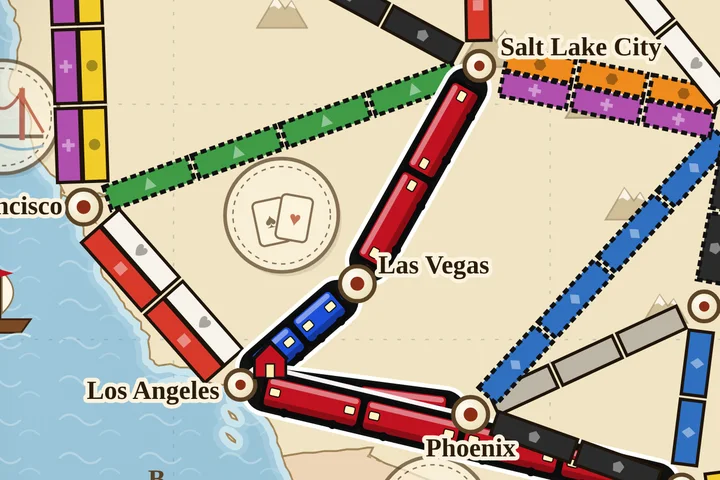
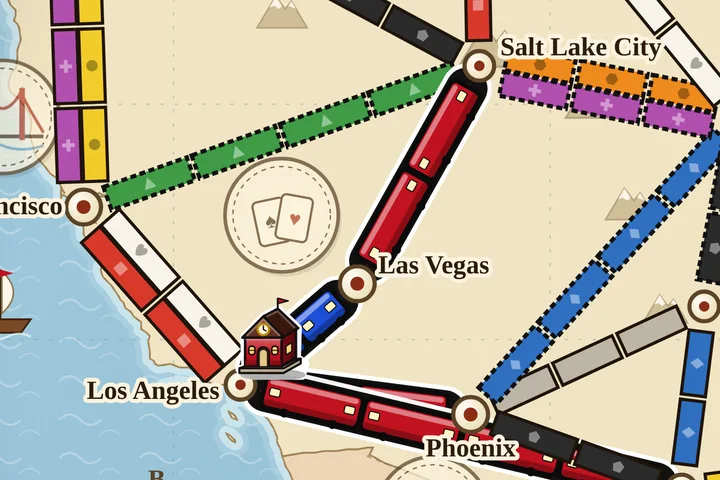
Đường Ray: nhà ga 3D mới cùng phong cách đoàn tàu (bản đồ, nút Xây ga, trang luật)
Claude-Session: https://claude.ai/code/session_01C6iMujCmX6wKKq45Tr3EAE

Changed region(s): [[0.3056, 0.625, 0.4278, 0.8125]]

diff --git a/games/duong-ray-bac-my/luat.html b/games/duong-ray-bac-my/luat.html
@@ -143,7 +143,40 @@ footer{text-align:center;color:#e9d6ae;font-size:14px;margin-top:10px}
 <div class="vd">Bạn được chia vé dài Calgary–Miami (17 điểm) và 3 vé thường. Nếu các vé thường nằm gần đường đi của vé dài, hãy giữ cả 4. Nếu có vé ở góc bản đồ ngược hướng, bỏ nó đi và giữ 3 vé.</div>
 <div class="hand"><span class="lbl">Tay bài mở đầu, ví dụ:</span><figure class="tc sm"><img src="../../railart/cards/red.webp" alt="Đỏ" loading="lazy"></figure><figure class="tc sm"><img src="../../railart/cards/red.webp" alt="Đỏ" loading="lazy"></figure><figure class="tc sm"><img src="../../railart/cards/blue.webp" alt="Xanh dương" loading="lazy"></figure><figure class="tc sm"><img src="../../railart/cards/loco.webp" alt="Đầu máy" loading="lazy"></figure></div></section><section class="box" id="luot-choi"><h2><span class="no">4</span>Lượt chơi</h2>
 <p>Đến lượt, bạn làm <b>đúng một</b> trong 4 việc dưới đây. Không được vừa rút bài vừa chiếm tuyến trong cùng một lượt.</p>
-<div class="steps"><div class="st"><h4><span>1</span>Rút bài toa tàu</h4><img class="ill" src="../../railart/cards/back.webp" alt=""><p>Lấy 2 lá, từ 5 lá ngửa hoặc chồng úp.</p></div><div class="st"><h4><span>2</span>Chiếm 1 tuyến</h4><img class="ill" src="../../railart/wagons/red.png" alt=""><p>Đánh đủ lá cùng màu, đặt toa lên tuyến, ghi điểm ngay.</p></div><div class="st"><h4><span>3</span>Rút vé hành trình</h4><img class="ill" src="../../railart/ticket-back.webp" alt=""><p>Rút 3 vé, giữ ít nhất 1.</p></div><div class="st"><h4><span>4</span>Xây nhà ga</h4><svg class="ill" viewBox="-2 -3 23 25" height="58" style="display:block;margin:4px auto 6px"><path d="M0,9 L9,0 L18,9 L18,20 L0,20Z" fill="#c1121f" stroke="#111" stroke-width="1.5"/><rect x="6.5" y="12" width="5" height="8" fill="#ffe9a8" stroke="#111" stroke-width=".8"/><path d="M-1,9.5 L9,-0.8 L19,9.5" fill="none" stroke="#111" stroke-width="2"/></svg><p>Trả 1, 2 rồi 3 lá cùng màu, đặt ga lên một thành phố trống.</p></div></div>
+<div class="steps"><div class="st"><h4><span>1</span>Rút bài toa tàu</h4><img class="ill" src="../../railart/cards/back.webp" alt=""><p>Lấy 2 lá, từ 5 lá ngửa hoặc chồng úp.</p></div><div class="st"><h4><span>2</span>Chiếm 1 tuyến</h4><img class="ill" src="../../railart/wagons/red.png" alt=""><p>Đánh đủ lá cùng màu, đặt toa lên tuyến, ghi điểm ngay.</p></div><div class="st"><h4><span>3</span>Rút vé hành trình</h4><img class="ill" src="../../railart/ticket-back.webp" alt=""><p>Rút 3 vé, giữ ít nhất 1.</p></div><div class="st"><h4><span>4</span>Xây nhà ga</h4><svg viewBox="-4 -8 38 42" class="ill" style="height:62px;display:block;margin:2px auto 6px"><defs><linearGradient id="sfrr" x1="0" y1="0" x2="0" y2="1"><stop offset="0" stop-color="#d7656d"/><stop offset=".6" stop-color="#c1121f"/><stop offset="1" stop-color="#9e0f19"/></linearGradient>
+   <linearGradient id="ssrr" x1="0" y1="0" x2="1" y2="0"><stop offset="0" stop-color="#780b13"/><stop offset="1" stop-color="#57080e"/></linearGradient>
+   <linearGradient id="srrr" x1="0" y1="0" x2="0" y2="1"><stop offset="0" stop-color="#8a4630"/><stop offset="1" stop-color="#5b2a1c"/></linearGradient></defs>
+  <g fill="#fff" stroke="#fff" stroke-width="4.2" stroke-linejoin="round" opacity=".95">
+     <path d="M-1.5 30 L4 33.5 L31 33.5 L33 27 L30 25 Z"/><path d="M1 13 L11 2.5 L18.5 -1.5 L29 8.5 L28.5 24 L21.5 28.5 L1.5 28.5 Z"/></g>
+  <ellipse cx="16" cy="33" rx="17" ry="3.2" fill="#000" opacity=".28"/>
+  <!-- sân ga -->
+  <path d="M-1.5 29.5 L21.5 29.5 L30.5 24.5 L30.5 27 L21.5 32 L-1.5 32 Z" fill="#b9ab90" stroke="#141010" stroke-width="1.1" stroke-linejoin="round"/>
+  <path d="M-1.5 29.5 L21.5 29.5 L30.5 24.5 L28.5 24.5 L21 28.4 L1.5 28.4 Z" fill="#efe6d2" stroke="#141010" stroke-width="1" stroke-linejoin="round"/>
+  <!-- tường hông -->
+  <path d="M20.5 13 L28 8.5 L28 23.8 L20.5 28.4 Z" fill="url(#ssrr)" stroke="#141010" stroke-width="1.3" stroke-linejoin="round"/>
+  <path d="M22.8 18 L25.8 16.2 L25.8 20.8 L22.8 22.6 Z" fill="#ffd877" stroke="#141010" stroke-width=".7" stroke-linejoin="round"/>
+  <!-- mặt tiền -->
+  <rect x="1.5" y="13" width="19" height="15.4" fill="url(#sfrr)" stroke="#141010" stroke-width="1.3"/>
+  <rect x="1.5" y="13" width="19" height="2" fill="#fff" opacity=".28"/>
+  <rect x="1.5" y="25.6" width="19" height="2.8" fill="#780b13" opacity=".55"/>
+  <!-- cửa vòm + cửa sổ -->
+  <path d="M8 28.4 V21.5 a3 3 0 0 1 6 0 V28.4 Z" fill="#3a2414" stroke="#141010" stroke-width="1"/>
+  <path d="M9.2 28.4 V21.8 a1.8 1.8 0 0 1 3.6 0 V28.4" fill="#ffe7a0" opacity=".85"/>
+  <rect x="3.4" y="18" width="3.2" height="4.4" rx="1.4" fill="#ffd877" stroke="#141010" stroke-width=".8"/>
+  <rect x="15.4" y="18" width="3.2" height="4.4" rx="1.4" fill="#ffd877" stroke="#141010" stroke-width=".8"/>
+  <path d="M3.4 20.2 h3.2 M15.4 20.2 h3.2" stroke="#141010" stroke-width=".5"/>
+  <!-- mái hông -->
+  <path d="M11 2.5 L18.5 -1.5 L29.2 8.6 L21.3 13.4 Z" fill="#3a170e" stroke="#141010" stroke-width="1.3" stroke-linejoin="round"/>
+  <path d="M12.6 2.6 L18.4 -.2 L27.4 8.4" fill="none" stroke="#fff" stroke-opacity=".25" stroke-width="1"/>
+  <!-- mái trước (đầu hồi) -->
+  <path d="M0 13.6 L11 2.5 L22 13.6 Z" fill="url(#srrr)" stroke="#141010" stroke-width="1.3" stroke-linejoin="round"/>
+  <path d="M2.4 12.6 L11 4 L19.6 12.6" fill="none" stroke="#fff" stroke-opacity=".3" stroke-width="1"/>
+  <!-- đồng hồ -->
+  <circle cx="11" cy="9.3" r="3" fill="#fff7dc" stroke="#b8860b" stroke-width="1.1"/>
+  <path d="M11 9.3 V7.4 M11 9.3 L12.4 10" stroke="#141010" stroke-width=".7" stroke-linecap="round"/>
+  <!-- cờ màu người chơi -->
+  <path d="M18.5 -1.5 V-7" stroke="#141010" stroke-width="1"/>
+  <path d="M18.6 -7 L24 -5.6 L18.6 -4.2 Z" fill="#c1121f" stroke="#141010" stroke-width=".7" stroke-linejoin="round"/></svg><p>Trả 1, 2 rồi 3 lá cùng màu, đặt ga lên một thành phố trống.</p></div></div>
 
 <h3 id="rut-bai">Việc 1: rút bài toa tàu</h3>
 <ul>
@@ -221,7 +254,7 @@ footer{text-align:center;color:#e9d6ae;font-size:14px;margin-top:10px}
 
 <h3 id="nha-ga">Việc 4: xây nhà ga</h3>
 <div class="fig">
-  <div><img class="shot" src="assets/rules/station.webp?v=1" alt="" loading="lazy"><p class="cap">Nhà ga Đỏ ở Los Angeles. Tuyến Los Angeles–Las Vegas là của người Xanh, hai tuyến Đỏ nằm hai bên.</p></div>
+  <div><img class="shot" src="assets/rules/station.webp?v=2" alt="" loading="lazy"><p class="cap">Nhà ga Đỏ ở Los Angeles. Tuyến Los Angeles–Las Vegas là của người Xanh, hai tuyến Đỏ nằm hai bên.</p></div>
   <div><ul>
    <li>Đặt nhà ga lên một thành phố <b>chưa có ga</b> nào. Không cần có tuyến của bạn ở đó.</li>
    <li>Giá tăng dần: ga thứ 1 tốn <b>1 lá</b>, ga thứ 2 tốn <b>2 lá cùng màu</b>, ga thứ 3 tốn <b>3 lá cùng màu</b>. Đầu máy thay được.</li>

diff --git a/games/duong-ray-chau-au/luat.html b/games/duong-ray-chau-au/luat.html
@@ -143,7 +143,40 @@ footer{text-align:center;color:#e9d6ae;font-size:14px;margin-top:10px}
 <div class="vd">Bạn được chia vé dài Paris–Moskva (17 điểm) và 3 vé thường. Nếu các vé thường nằm gần đường đi của vé dài, hãy giữ cả 4. Nếu có vé ở góc bản đồ ngược hướng, bỏ nó đi và giữ 3 vé.</div>
 <div class="hand"><span class="lbl">Tay bài mở đầu, ví dụ:</span><figure class="tc sm"><img src="../../railart/cards/red.webp" alt="Đỏ" loading="lazy"></figure><figure class="tc sm"><img src="../../railart/cards/red.webp" alt="Đỏ" loading="lazy"></figure><figure class="tc sm"><img src="../../railart/cards/blue.webp" alt="Xanh dương" loading="lazy"></figure><figure class="tc sm"><img src="../../railart/cards/loco.webp" alt="Đầu máy" loading="lazy"></figure></div></section><section class="box" id="luot-choi"><h2><span class="no">4</span>Lượt chơi</h2>
 <p>Đến lượt, bạn làm <b>đúng một</b> trong 4 việc dưới đây. Không được vừa rút bài vừa chiếm tuyến trong cùng một lượt.</p>
-<div class="steps"><div class="st"><h4><span>1</span>Rút bài toa tàu</h4><img class="ill" src="../../railart/cards/back.webp" alt=""><p>Lấy 2 lá, từ 5 lá ngửa hoặc chồng úp.</p></div><div class="st"><h4><span>2</span>Chiếm 1 tuyến</h4><img class="ill" src="../../railart/wagons/red.png" alt=""><p>Đánh đủ lá cùng màu, đặt toa lên tuyến, ghi điểm ngay.</p></div><div class="st"><h4><span>3</span>Rút vé hành trình</h4><img class="ill" src="../../railart/ticket-back.webp" alt=""><p>Rút 3 vé, giữ ít nhất 1.</p></div><div class="st"><h4><span>4</span>Xây nhà ga</h4><svg class="ill" viewBox="-2 -3 23 25" height="58" style="display:block;margin:4px auto 6px"><path d="M0,9 L9,0 L18,9 L18,20 L0,20Z" fill="#c1121f" stroke="#111" stroke-width="1.5"/><rect x="6.5" y="12" width="5" height="8" fill="#ffe9a8" stroke="#111" stroke-width=".8"/><path d="M-1,9.5 L9,-0.8 L19,9.5" fill="none" stroke="#111" stroke-width="2"/></svg><p>Trả 1, 2 rồi 3 lá cùng màu, đặt ga lên một thành phố trống.</p></div></div>
+<div class="steps"><div class="st"><h4><span>1</span>Rút bài toa tàu</h4><img class="ill" src="../../railart/cards/back.webp" alt=""><p>Lấy 2 lá, từ 5 lá ngửa hoặc chồng úp.</p></div><div class="st"><h4><span>2</span>Chiếm 1 tuyến</h4><img class="ill" src="../../railart/wagons/red.png" alt=""><p>Đánh đủ lá cùng màu, đặt toa lên tuyến, ghi điểm ngay.</p></div><div class="st"><h4><span>3</span>Rút vé hành trình</h4><img class="ill" src="../../railart/ticket-back.webp" alt=""><p>Rút 3 vé, giữ ít nhất 1.</p></div><div class="st"><h4><span>4</span>Xây nhà ga</h4><svg viewBox="-4 -8 38 42" class="ill" style="height:62px;display:block;margin:2px auto 6px"><defs><linearGradient id="sfrr" x1="0" y1="0" x2="0" y2="1"><stop offset="0" stop-color="#d7656d"/><stop offset=".6" stop-color="#c1121f"/><stop offset="1" stop-color="#9e0f19"/></linearGradient>
+   <linearGradient id="ssrr" x1="0" y1="0" x2="1" y2="0"><stop offset="0" stop-color="#780b13"/><stop offset="1" stop-color="#57080e"/></linearGradient>
+   <linearGradient id="srrr" x1="0" y1="0" x2="0" y2="1"><stop offset="0" stop-color="#8a4630"/><stop offset="1" stop-color="#5b2a1c"/></linearGradient></defs>
+  <g fill="#fff" stroke="#fff" stroke-width="4.2" stroke-linejoin="round" opacity=".95">
+     <path d="M-1.5 30 L4 33.5 L31 33.5 L33 27 L30 25 Z"/><path d="M1 13 L11 2.5 L18.5 -1.5 L29 8.5 L28.5 24 L21.5 28.5 L1.5 28.5 Z"/></g>
+  <ellipse cx="16" cy="33" rx="17" ry="3.2" fill="#000" opacity=".28"/>
+  <!-- sân ga -->
+  <path d="M-1.5 29.5 L21.5 29.5 L30.5 24.5 L30.5 27 L21.5 32 L-1.5 32 Z" fill="#b9ab90" stroke="#141010" stroke-width="1.1" stroke-linejoin="round"/>
+  <path d="M-1.5 29.5 L21.5 29.5 L30.5 24.5 L28.5 24.5 L21 28.4 L1.5 28.4 Z" fill="#efe6d2" stroke="#141010" stroke-width="1" stroke-linejoin="round"/>
+  <!-- tường hông -->
+  <path d="M20.5 13 L28 8.5 L28 23.8 L20.5 28.4 Z" fill="url(#ssrr)" stroke="#141010" stroke-width="1.3" stroke-linejoin="round"/>
+  <path d="M22.8 18 L25.8 16.2 L25.8 20.8 L22.8 22.6 Z" fill="#ffd877" stroke="#141010" stroke-width=".7" stroke-linejoin="round"/>
+  <!-- mặt tiền -->
+  <rect x="1.5" y="13" width="19" height="15.4" fill="url(#sfrr)" stroke="#141010" stroke-width="1.3"/>
+  <rect x="1.5" y="13" width="19" height="2" fill="#fff" opacity=".28"/>
+  <rect x="1.5" y="25.6" width="19" height="2.8" fill="#780b13" opacity=".55"/>
+  <!-- cửa vòm + cửa sổ -->
+  <path d="M8 28.4 V21.5 a3 3 0 0 1 6 0 V28.4 Z" fill="#3a2414" stroke="#141010" stroke-width="1"/>
+  <path d="M9.2 28.4 V21.8 a1.8 1.8 0 0 1 3.6 0 V28.4" fill="#ffe7a0" opacity=".85"/>
+  <rect x="3.4" y="18" width="3.2" height="4.4" rx="1.4" fill="#ffd877" stroke="#141010" stroke-width=".8"/>
+  <rect x="15.4" y="18" width="3.2" height="4.4" rx="1.4" fill="#ffd877" stroke="#141010" stroke-width=".8"/>
+  <path d="M3.4 20.2 h3.2 M15.4 20.2 h3.2" stroke="#141010" stroke-width=".5"/>
+  <!-- mái hông -->
+  <path d="M11 2.5 L18.5 -1.5 L29.2 8.6 L21.3 13.4 Z" fill="#3a170e" stroke="#141010" stroke-width="1.3" stroke-linejoin="round"/>
+  <path d="M12.6 2.6 L18.4 -.2 L27.4 8.4" fill="none" stroke="#fff" stroke-opacity=".25" stroke-width="1"/>
+  <!-- mái trước (đầu hồi) -->
+  <path d="M0 13.6 L11 2.5 L22 13.6 Z" fill="url(#srrr)" stroke="#141010" stroke-width="1.3" stroke-linejoin="round"/>
+  <path d="M2.4 12.6 L11 4 L19.6 12.6" fill="none" stroke="#fff" stroke-opacity=".3" stroke-width="1"/>
+  <!-- đồng hồ -->
+  <circle cx="11" cy="9.3" r="3" fill="#fff7dc" stroke="#b8860b" stroke-width="1.1"/>
+  <path d="M11 9.3 V7.4 M11 9.3 L12.4 10" stroke="#141010" stroke-width=".7" stroke-linecap="round"/>
+  <!-- cờ màu người chơi -->
+  <path d="M18.5 -1.5 V-7" stroke="#141010" stroke-width="1"/>
+  <path d="M18.6 -7 L24 -5.6 L18.6 -4.2 Z" fill="#c1121f" stroke="#141010" stroke-width=".7" stroke-linejoin="round"/></svg><p>Trả 1, 2 rồi 3 lá cùng màu, đặt ga lên một thành phố trống.</p></div></div>
 
 <h3 id="rut-bai">Việc 1: rút bài toa tàu</h3>
 <ul>
@@ -222,7 +255,7 @@ footer{text-align:center;color:#e9d6ae;font-size:14px;margin-top:10px}
 
 <h3 id="nha-ga">Việc 4: xây nhà ga</h3>
 <div class="fig">
-  <div><img class="shot" src="assets/rules/station.webp?v=1" alt="" loading="lazy"><p class="cap">Nhà ga Đỏ ở Lisboa. Tuyến Lisboa–Madrid là của người Xanh, hai tuyến Đỏ nằm hai bên.</p></div>
+  <div><img class="shot" src="assets/rules/station.webp?v=2" alt="" loading="lazy"><p class="cap">Nhà ga Đỏ ở Lisboa. Tuyến Lisboa–Madrid là của người Xanh, hai tuyến Đỏ nằm hai bên.</p></div>
   <div><ul>
    <li>Đặt nhà ga lên một thành phố <b>chưa có ga</b> nào. Không cần có tuyến của bạn ở đó.</li>
    <li>Giá tăng dần: ga thứ 1 tốn <b>1 lá</b>, ga thứ 2 tốn <b>2 lá cùng màu</b>, ga thứ 3 tốn <b>3 lá cùng màu</b>. Đầu máy thay được.</li>

diff --git a/games/duong-ray-bac-my/index.html b/games/duong-ray-bac-my/index.html
@@ -1760,6 +1760,46 @@ function shade(hex, amt){
   const f=x=>Math.max(0,Math.min(255,Math.round(amt>=0? x+(255-x)*amt : x*(1+amt))));
   return '#'+[f(r),f(g),f(b)].map(v=>v.toString(16).padStart(2,'0')).join('');
 }
+/* Nhà ga 3D: khung nhìn "-4 -8 38 42" — gốc toạ độ ở góc trái-trên mặt tiền */
+function stationSVG(col, id){
+  const k=id||col.slice(1), lt=shade(col,.35), dk=shade(col,-.38), dk2=shade(col,-.55), O='#141010';
+  const roof='#5b2a1c', roofL='#8a4630', roofD='#3a170e';
+  const halo=`<g fill="#fff" stroke="#fff" stroke-width="4.2" stroke-linejoin="round" opacity=".95">
+     <path d="M-1.5 30 L4 33.5 L31 33.5 L33 27 L30 25 Z"/><path d="M1 13 L11 2.5 L18.5 -1.5 L29 8.5 L28.5 24 L21.5 28.5 L1.5 28.5 Z"/></g>`;
+  return `<defs><linearGradient id="sf${k}" x1="0" y1="0" x2="0" y2="1"><stop offset="0" stop-color="${lt}"/><stop offset=".6" stop-color="${col}"/><stop offset="1" stop-color="${shade(col,-.18)}"/></linearGradient>
+   <linearGradient id="ss${k}" x1="0" y1="0" x2="1" y2="0"><stop offset="0" stop-color="${dk}"/><stop offset="1" stop-color="${dk2}"/></linearGradient>
+   <linearGradient id="sr${k}" x1="0" y1="0" x2="0" y2="1"><stop offset="0" stop-color="${roofL}"/><stop offset="1" stop-color="${roof}"/></linearGradient></defs>
+  ${halo}
+  <ellipse cx="16" cy="33" rx="17" ry="3.2" fill="#000" opacity=".28"/>
+  <!-- sân ga -->
+  <path d="M-1.5 29.5 L21.5 29.5 L30.5 24.5 L30.5 27 L21.5 32 L-1.5 32 Z" fill="#b9ab90" stroke="${O}" stroke-width="1.1" stroke-linejoin="round"/>
+  <path d="M-1.5 29.5 L21.5 29.5 L30.5 24.5 L28.5 24.5 L21 28.4 L1.5 28.4 Z" fill="#efe6d2" stroke="${O}" stroke-width="1" stroke-linejoin="round"/>
+  <!-- tường hông -->
+  <path d="M20.5 13 L28 8.5 L28 23.8 L20.5 28.4 Z" fill="url(#ss${k})" stroke="${O}" stroke-width="1.3" stroke-linejoin="round"/>
+  <path d="M22.8 18 L25.8 16.2 L25.8 20.8 L22.8 22.6 Z" fill="#ffd877" stroke="${O}" stroke-width=".7" stroke-linejoin="round"/>
+  <!-- mặt tiền -->
+  <rect x="1.5" y="13" width="19" height="15.4" fill="url(#sf${k})" stroke="${O}" stroke-width="1.3"/>
+  <rect x="1.5" y="13" width="19" height="2" fill="#fff" opacity=".28"/>
+  <rect x="1.5" y="25.6" width="19" height="2.8" fill="${dk}" opacity=".55"/>
+  <!-- cửa vòm + cửa sổ -->
+  <path d="M8 28.4 V21.5 a3 3 0 0 1 6 0 V28.4 Z" fill="#3a2414" stroke="${O}" stroke-width="1"/>
+  <path d="M9.2 28.4 V21.8 a1.8 1.8 0 0 1 3.6 0 V28.4" fill="#ffe7a0" opacity=".85"/>
+  <rect x="3.4" y="18" width="3.2" height="4.4" rx="1.4" fill="#ffd877" stroke="${O}" stroke-width=".8"/>
+  <rect x="15.4" y="18" width="3.2" height="4.4" rx="1.4" fill="#ffd877" stroke="${O}" stroke-width=".8"/>
+  <path d="M3.4 20.2 h3.2 M15.4 20.2 h3.2" stroke="${O}" stroke-width=".5"/>
+  <!-- mái hông -->
+  <path d="M11 2.5 L18.5 -1.5 L29.2 8.6 L21.3 13.4 Z" fill="${roofD}" stroke="${O}" stroke-width="1.3" stroke-linejoin="round"/>
+  <path d="M12.6 2.6 L18.4 -.2 L27.4 8.4" fill="none" stroke="#fff" stroke-opacity=".25" stroke-width="1"/>
+  <!-- mái trước (đầu hồi) -->
+  <path d="M0 13.6 L11 2.5 L22 13.6 Z" fill="url(#sr${k})" stroke="${O}" stroke-width="1.3" stroke-linejoin="round"/>
+  <path d="M2.4 12.6 L11 4 L19.6 12.6" fill="none" stroke="#fff" stroke-opacity=".3" stroke-width="1"/>
+  <!-- đồng hồ -->
+  <circle cx="11" cy="9.3" r="3" fill="#fff7dc" stroke="#b8860b" stroke-width="1.1"/>
+  <path d="M11 9.3 V7.4 M11 9.3 L12.4 10" stroke="${O}" stroke-width=".7" stroke-linecap="round"/>
+  <!-- cờ màu người chơi -->
+  <path d="M18.5 -1.5 V-7" stroke="${O}" stroke-width="1"/>
+  <path d="M18.6 -7 L24 -5.6 L18.6 -4.2 Z" fill="${col}" stroke="${O}" stroke-width=".7" stroke-linejoin="round"/>`;
+}
 /* Định nghĩa gradient dùng chung (chèn 1 lần vào trang) */
 function globalDefsSVG(){
   let s='<svg width="0" height="0" style="position:absolute" aria-hidden="true"><defs>';
@@ -2090,7 +2130,7 @@ function renderMap(){
     const st=G.stations[C.id]; const big = !!LANDMARKS[C.name];
     s+=`<g class="city ${stMode && st==null ? 'pick':''}" data-city="${C.id}"><circle cx="${C.x}" cy="${C.y}" r="14" fill="transparent"/>
       <circle cx="${C.x}" cy="${C.y}" r="${big?10:8.5}" fill="url(#cityg)" stroke="#5b4326" stroke-width="2.4"/><circle cx="${C.x}" cy="${C.y}" r="${big?4:3}" fill="#8b2e16"/>`;
-    if (st!=null) s+=`<g transform="translate(${C.x+8},${C.y-24})"><g class="station"><path d="M0,9 L9,0 L18,9 L18,20 L0,20Z" fill="${G.players[st].color}" stroke="#111" stroke-width="1.5"/><rect x="6.5" y="12" width="5" height="8" fill="#ffe9a8" stroke="#111" stroke-width=".8"/><path d="M-1,9.5 L9,-0.8 L19,9.5" fill="none" stroke="#111" stroke-width="2"/></g></g>`;
+    if (st!=null) s+=`<g transform="translate(${C.x+1},${C.y-42}) scale(1.1)"><g class="station">${stationSVG(G.players[st].color,'p'+st)}</g></g>`;
     s+=`<text x="${C.x+C.dx}" y="${C.y+C.dy}" text-anchor="${C.anchor}" class="clabel">${esc(C.name)}</text></g>`;
   });
   s+=beaconSVG();
@@ -2208,7 +2248,7 @@ function renderSide(){
   const me=G.players[ME];
   if (me){
     $('#stationBtn').disabled = !my || G.drawn>0 || me.stations<=0 || !stationOptions(ME).length;
-    $('#stationBtn').innerHTML = UIS.stationMode ? '<span class="stico">✖</span><span class="dlab">Huỷ</span>' : `<span class="stico"></span><span class="dlab">Xây ga</span><small>tốn ${Math.min(3,stationCost(me))} lá</small>`;
+    $('#stationBtn').innerHTML = UIS.stationMode ? '<span class="stico">✖</span><span class="dlab">Huỷ</span>' : `<span class="stico"><svg viewBox="-4 -8 38 42" style="display:block;margin:0 auto;width:1.6em;height:1.75em">${stationSVG(me.color,'btn')}</svg></span><span class="dlab">Xây ga</span><small>tốn ${Math.min(3,stationCost(me))} lá</small>`;
     const hasMove = canDrawMore() || G.ticketDeck.length || ROUTES.some(r=>claimOptions(ME,r).length) || stationOptions(ME).length;
     $('#passBtn').style.display = (my && G.drawn===0 && !hasMove) ? '' : 'none';
   } else { $('#stationBtn').disabled=true; $('#passBtn').style.display='none'; }

diff --git a/games/duong-ray-chau-au/index.html b/games/duong-ray-chau-au/index.html
@@ -1765,6 +1765,46 @@ function shade(hex, amt){
   const f=x=>Math.max(0,Math.min(255,Math.round(amt>=0? x+(255-x)*amt : x*(1+amt))));
   return '#'+[f(r),f(g),f(b)].map(v=>v.toString(16).padStart(2,'0')).join('');
 }
+/* Nhà ga 3D: khung nhìn "-4 -8 38 42" — gốc toạ độ ở góc trái-trên mặt tiền */
+function stationSVG(col, id){
+  const k=id||col.slice(1), lt=shade(col,.35), dk=shade(col,-.38), dk2=shade(col,-.55), O='#141010';
+  const roof='#5b2a1c', roofL='#8a4630', roofD='#3a170e';
+  const halo=`<g fill="#fff" stroke="#fff" stroke-width="4.2" stroke-linejoin="round" opacity=".95">
+     <path d="M-1.5 30 L4 33.5 L31 33.5 L33 27 L30 25 Z"/><path d="M1 13 L11 2.5 L18.5 -1.5 L29 8.5 L28.5 24 L21.5 28.5 L1.5 28.5 Z"/></g>`;
+  return `<defs><linearGradient id="sf${k}" x1="0" y1="0" x2="0" y2="1"><stop offset="0" stop-color="${lt}"/><stop offset=".6" stop-color="${col}"/><stop offset="1" stop-color="${shade(col,-.18)}"/></linearGradient>
+   <linearGradient id="ss${k}" x1="0" y1="0" x2="1" y2="0"><stop offset="0" stop-color="${dk}"/><stop offset="1" stop-color="${dk2}"/></linearGradient>
+   <linearGradient id="sr${k}" x1="0" y1="0" x2="0" y2="1"><stop offset="0" stop-color="${roofL}"/><stop offset="1" stop-color="${roof}"/></linearGradient></defs>
+  ${halo}
+  <ellipse cx="16" cy="33" rx="17" ry="3.2" fill="#000" opacity=".28"/>
+  <!-- sân ga -->
+  <path d="M-1.5 29.5 L21.5 29.5 L30.5 24.5 L30.5 27 L21.5 32 L-1.5 32 Z" fill="#b9ab90" stroke="${O}" stroke-width="1.1" stroke-linejoin="round"/>
+  <path d="M-1.5 29.5 L21.5 29.5 L30.5 24.5 L28.5 24.5 L21 28.4 L1.5 28.4 Z" fill="#efe6d2" stroke="${O}" stroke-width="1" stroke-linejoin="round"/>
+  <!-- tường hông -->
+  <path d="M20.5 13 L28 8.5 L28 23.8 L20.5 28.4 Z" fill="url(#ss${k})" stroke="${O}" stroke-width="1.3" stroke-linejoin="round"/>
+  <path d="M22.8 18 L25.8 16.2 L25.8 20.8 L22.8 22.6 Z" fill="#ffd877" stroke="${O}" stroke-width=".7" stroke-linejoin="round"/>
+  <!-- mặt tiền -->
+  <rect x="1.5" y="13" width="19" height="15.4" fill="url(#sf${k})" stroke="${O}" stroke-width="1.3"/>
+  <rect x="1.5" y="13" width="19" height="2" fill="#fff" opacity=".28"/>
+  <rect x="1.5" y="25.6" width="19" height="2.8" fill="${dk}" opacity=".55"/>
+  <!-- cửa vòm + cửa sổ -->
+  <path d="M8 28.4 V21.5 a3 3 0 0 1 6 0 V28.4 Z" fill="#3a2414" stroke="${O}" stroke-width="1"/>
+  <path d="M9.2 28.4 V21.8 a1.8 1.8 0 0 1 3.6 0 V28.4" fill="#ffe7a0" opacity=".85"/>
+  <rect x="3.4" y="18" width="3.2" height="4.4" rx="1.4" fill="#ffd877" stroke="${O}" stroke-width=".8"/>
+  <rect x="15.4" y="18" width="3.2" height="4.4" rx="1.4" fill="#ffd877" stroke="${O}" stroke-width=".8"/>
+  <path d="M3.4 20.2 h3.2 M15.4 20.2 h3.2" stroke="${O}" stroke-width=".5"/>
+  <!-- mái hông -->
+  <path d="M11 2.5 L18.5 -1.5 L29.2 8.6 L21.3 13.4 Z" fill="${roofD}" stroke="${O}" stroke-width="1.3" stroke-linejoin="round"/>
+  <path d="M12.6 2.6 L18.4 -.2 L27.4 8.4" fill="none" stroke="#fff" stroke-opacity=".25" stroke-width="1"/>
+  <!-- mái trước (đầu hồi) -->
+  <path d="M0 13.6 L11 2.5 L22 13.6 Z" fill="url(#sr${k})" stroke="${O}" stroke-width="1.3" stroke-linejoin="round"/>
+  <path d="M2.4 12.6 L11 4 L19.6 12.6" fill="none" stroke="#fff" stroke-opacity=".3" stroke-width="1"/>
+  <!-- đồng hồ -->
+  <circle cx="11" cy="9.3" r="3" fill="#fff7dc" stroke="#b8860b" stroke-width="1.1"/>
+  <path d="M11 9.3 V7.4 M11 9.3 L12.4 10" stroke="${O}" stroke-width=".7" stroke-linecap="round"/>
+  <!-- cờ màu người chơi -->
+  <path d="M18.5 -1.5 V-7" stroke="${O}" stroke-width="1"/>
+  <path d="M18.6 -7 L24 -5.6 L18.6 -4.2 Z" fill="${col}" stroke="${O}" stroke-width=".7" stroke-linejoin="round"/>`;
+}
 /* Định nghĩa gradient dùng chung (chèn 1 lần vào trang) */
 function globalDefsSVG(){
   let s='<svg width="0" height="0" style="position:absolute" aria-hidden="true"><defs>';
@@ -2095,7 +2135,7 @@ function renderMap(){
     const st=G.stations[C.id]; const big = !!LANDMARKS[C.name];
     s+=`<g class="city ${stMode && st==null ? 'pick':''}" data-city="${C.id}"><circle cx="${C.x}" cy="${C.y}" r="14" fill="transparent"/>
       <circle cx="${C.x}" cy="${C.y}" r="${big?10:8.5}" fill="url(#cityg)" stroke="#5b4326" stroke-width="2.4"/><circle cx="${C.x}" cy="${C.y}" r="${big?4:3}" fill="#8b2e16"/>`;
-    if (st!=null) s+=`<g transform="translate(${C.x+8},${C.y-24})"><g class="station"><path d="M0,9 L9,0 L18,9 L18,20 L0,20Z" fill="${G.players[st].color}" stroke="#111" stroke-width="1.5"/><rect x="6.5" y="12" width="5" height="8" fill="#ffe9a8" stroke="#111" stroke-width=".8"/><path d="M-1,9.5 L9,-0.8 L19,9.5" fill="none" stroke="#111" stroke-width="2"/></g></g>`;
+    if (st!=null) s+=`<g transform="translate(${C.x+1},${C.y-42}) scale(1.1)"><g class="station">${stationSVG(G.players[st].color,'p'+st)}</g></g>`;
     s+=`<text x="${C.x+C.dx}" y="${C.y+C.dy}" text-anchor="${C.anchor}" class="clabel">${esc(C.name)}</text></g>`;
   });
   s+=beaconSVG();
@@ -2213,7 +2253,7 @@ function renderSide(){
   const me=G.players[ME];
   if (me){
     $('#stationBtn').disabled = !my || G.drawn>0 || me.stations<=0 || !stationOptions(ME).length;
-    $('#stationBtn').innerHTML = UIS.stationMode ? '<span class="stico">✖</span><span class="dlab">Huỷ</span>' : `<span class="stico"></span><span class="dlab">Xây ga</span><small>tốn ${Math.min(3,stationCost(me))} lá</small>`;
+    $('#stationBtn').innerHTML = UIS.stationMode ? '<span class="stico">✖</span><span class="dlab">Huỷ</span>' : `<span class="stico"><svg viewBox="-4 -8 38 42" style="display:block;margin:0 auto;width:1.6em;height:1.75em">${stationSVG(me.color,'btn')}</svg></span><span class="dlab">Xây ga</span><small>tốn ${Math.min(3,stationCost(me))} lá</small>`;
     const hasMove = canDrawMore() || G.ticketDeck.length || ROUTES.some(r=>claimOptions(ME,r).length) || stationOptions(ME).length;
     $('#passBtn').style.display = (my && G.drawn===0 && !hasMove) ? '' : 'none';
   } else { $('#stationBtn').disabled=true; $('#passBtn').style.display='none'; }

diff --git a/games/duong-ray-bac-my/tom-tat.html b/games/duong-ray-bac-my/tom-tat.html
@@ -119,7 +119,40 @@ footer{text-align:center;color:#e9d6ae;font-size:14px;margin-top:10px}
 <section class="box wide"><h2><span class="no">⚑</span>Điểm khi chiếm tuyến</h2><div class="pts" style="--n:7"><div><span class="len"><i></i></span><b>1 ô</b><strong>1</strong></div><div><span class="len"><i></i><i></i></span><b>2 ô</b><strong>2</strong></div><div><span class="len"><i></i><i></i><i></i></span><b>3 ô</b><strong>4</strong></div><div><span class="len"><i></i><i></i><i></i><i></i></span><b>4 ô</b><strong>7</strong></div><div><span class="len"><i></i><i></i><i></i><i></i><i></i></span><b>5 ô</b><strong>10</strong></div><div><span class="len"><i></i><i></i><i></i><i></i><i></i><i></i></span><b>6 ô</b><strong>15</strong></div><div><span class="len"><i></i><i></i><i></i><i></i><i></i><i></i><i></i></span><b>7 ô</b><strong>18</strong></div></div>
 <ul><li>Tuyến xám: một màu bất kỳ. Đường đôi: không chiếm cả 2 làn; 2 đến 3 người chỉ dùng 1 làn.</li></ul></section>
 <section class="box"><h2><span class="no">⛰</span>Hầm và phà</h2><ul><li><b>Hầm</b> (viền nét đứt): lật 3 lá, mỗi lá trùng màu hoặc Đầu máy phải trả thêm 1 lá. Không trả được thì lấy lại bài, mất lượt.</li><li><b>Phà</b> (ngôi sao): mỗi ngôi sao cần 1 Đầu máy.</li></ul></section>
-<section class="box"><h2><span class="no">⌂</span>Nhà ga</h2><ul><li>Đặt ở thành phố chưa có ga.</li><li>Cuối ván mượn 1 tuyến đối thủ vào thành phố đó để nối vé.</li><li>Ga không xây: +4 điểm.</li></ul></section>
+<section class="box"><h2><span class="no">⌂</span>Nhà ga</h2><svg viewBox="-4 -8 38 42" class="ill" style="height:62px;display:block;margin:2px auto 6px"><defs><linearGradient id="sfrr" x1="0" y1="0" x2="0" y2="1"><stop offset="0" stop-color="#d7656d"/><stop offset=".6" stop-color="#c1121f"/><stop offset="1" stop-color="#9e0f19"/></linearGradient>
+   <linearGradient id="ssrr" x1="0" y1="0" x2="1" y2="0"><stop offset="0" stop-color="#780b13"/><stop offset="1" stop-color="#57080e"/></linearGradient>
+   <linearGradient id="srrr" x1="0" y1="0" x2="0" y2="1"><stop offset="0" stop-color="#8a4630"/><stop offset="1" stop-color="#5b2a1c"/></linearGradient></defs>
+  <g fill="#fff" stroke="#fff" stroke-width="4.2" stroke-linejoin="round" opacity=".95">
+     <path d="M-1.5 30 L4 33.5 L31 33.5 L33 27 L30 25 Z"/><path d="M1 13 L11 2.5 L18.5 -1.5 L29 8.5 L28.5 24 L21.5 28.5 L1.5 28.5 Z"/></g>
+  <ellipse cx="16" cy="33" rx="17" ry="3.2" fill="#000" opacity=".28"/>
+  <!-- sân ga -->
+  <path d="M-1.5 29.5 L21.5 29.5 L30.5 24.5 L30.5 27 L21.5 32 L-1.5 32 Z" fill="#b9ab90" stroke="#141010" stroke-width="1.1" stroke-linejoin="round"/>
+  <path d="M-1.5 29.5 L21.5 29.5 L30.5 24.5 L28.5 24.5 L21 28.4 L1.5 28.4 Z" fill="#efe6d2" stroke="#141010" stroke-width="1" stroke-linejoin="round"/>
+  <!-- tường hông -->
+  <path d="M20.5 13 L28 8.5 L28 23.8 L20.5 28.4 Z" fill="url(#ssrr)" stroke="#141010" stroke-width="1.3" stroke-linejoin="round"/>
+  <path d="M22.8 18 L25.8 16.2 L25.8 20.8 L22.8 22.6 Z" fill="#ffd877" stroke="#141010" stroke-width=".7" stroke-linejoin="round"/>
+  <!-- mặt tiền -->
+  <rect x="1.5" y="13" width="19" height="15.4" fill="url(#sfrr)" stroke="#141010" stroke-width="1.3"/>
+  <rect x="1.5" y="13" width="19" height="2" fill="#fff" opacity=".28"/>
+  <rect x="1.5" y="25.6" width="19" height="2.8" fill="#780b13" opacity=".55"/>
+  <!-- cửa vòm + cửa sổ -->
+  <path d="M8 28.4 V21.5 a3 3 0 0 1 6 0 V28.4 Z" fill="#3a2414" stroke="#141010" stroke-width="1"/>
+  <path d="M9.2 28.4 V21.8 a1.8 1.8 0 0 1 3.6 0 V28.4" fill="#ffe7a0" opacity=".85"/>
+  <rect x="3.4" y="18" width="3.2" height="4.4" rx="1.4" fill="#ffd877" stroke="#141010" stroke-width=".8"/>
+  <rect x="15.4" y="18" width="3.2" height="4.4" rx="1.4" fill="#ffd877" stroke="#141010" stroke-width=".8"/>
+  <path d="M3.4 20.2 h3.2 M15.4 20.2 h3.2" stroke="#141010" stroke-width=".5"/>
+  <!-- mái hông -->
+  <path d="M11 2.5 L18.5 -1.5 L29.2 8.6 L21.3 13.4 Z" fill="#3a170e" stroke="#141010" stroke-width="1.3" stroke-linejoin="round"/>
+  <path d="M12.6 2.6 L18.4 -.2 L27.4 8.4" fill="none" stroke="#fff" stroke-opacity=".25" stroke-width="1"/>
+  <!-- mái trước (đầu hồi) -->
+  <path d="M0 13.6 L11 2.5 L22 13.6 Z" fill="url(#srrr)" stroke="#141010" stroke-width="1.3" stroke-linejoin="round"/>
+  <path d="M2.4 12.6 L11 4 L19.6 12.6" fill="none" stroke="#fff" stroke-opacity=".3" stroke-width="1"/>
+  <!-- đồng hồ -->
+  <circle cx="11" cy="9.3" r="3" fill="#fff7dc" stroke="#b8860b" stroke-width="1.1"/>
+  <path d="M11 9.3 V7.4 M11 9.3 L12.4 10" stroke="#141010" stroke-width=".7" stroke-linecap="round"/>
+  <!-- cờ màu người chơi -->
+  <path d="M18.5 -1.5 V-7" stroke="#141010" stroke-width="1"/>
+  <path d="M18.6 -7 L24 -5.6 L18.6 -4.2 Z" fill="#c1121f" stroke="#141010" stroke-width=".7" stroke-linejoin="round"/></svg><ul><li>Đặt ở thành phố chưa có ga.</li><li>Cuối ván mượn 1 tuyến đối thủ vào thành phố đó để nối vé.</li><li>Ga không xây: +4 điểm.</li></ul></section>
 <section class="box"><h2><span class="no">✉</span>Vé hành trình</h2><img src="../../railart/tickets/na/L0.webp?v=9" alt="" style="width:100%;border-radius:8px;box-shadow:0 3px 8px rgba(0,0,0,.3)"><p>Nối được 2 thành phố: cộng điểm. Không nối được: trừ điểm.</p></section>
 <section class="box"><h2><span class="no">⌛</span>Kết thúc</h2><ul><li>Ai còn ≤ 2 toa: mọi người đi thêm đúng 1 lượt.</li><li>Cộng/trừ vé, +10 đường liên tục dài nhất (hòa thì cùng nhận), +4 mỗi ga chưa xây.</li><li>Bằng điểm: ai xong nhiều vé hơn thắng.</li></ul></section>
 </div>

diff --git a/games/duong-ray-chau-au/tom-tat.html b/games/duong-ray-chau-au/tom-tat.html
@@ -119,7 +119,40 @@ footer{text-align:center;color:#e9d6ae;font-size:14px;margin-top:10px}
 <section class="box wide"><h2><span class="no">⚑</span>Điểm khi chiếm tuyến</h2><div class="pts" style="--n:5"><div><span class="len"><i></i></span><b>1 ô</b><strong>1</strong></div><div><span class="len"><i></i><i></i></span><b>2 ô</b><strong>2</strong></div><div><span class="len"><i></i><i></i><i></i></span><b>3 ô</b><strong>4</strong></div><div><span class="len"><i></i><i></i><i></i><i></i></span><b>4 ô</b><strong>7</strong></div><div><span class="len"><i></i><i></i><i></i><i></i><i></i></span><b>5 ô</b><strong>10</strong></div></div>
 <ul><li>Tuyến xám: một màu bất kỳ. Đường đôi: không chiếm cả 2 làn; 2 đến 3 người chỉ dùng 1 làn.</li></ul></section>
 <section class="box"><h2><span class="no">⛰</span>Hầm và phà</h2><ul><li><b>Hầm</b> (viền nét đứt): lật 3 lá, mỗi lá trùng màu hoặc Đầu máy phải trả thêm 1 lá. Không trả được thì lấy lại bài, mất lượt.</li><li><b>Phà</b> (ngôi sao): mỗi ngôi sao cần 1 Đầu máy.</li></ul></section>
-<section class="box"><h2><span class="no">⌂</span>Nhà ga</h2><ul><li>Đặt ở thành phố chưa có ga.</li><li>Cuối ván mượn 1 tuyến đối thủ vào thành phố đó để nối vé.</li><li>Ga không xây: +4 điểm.</li></ul></section>
+<section class="box"><h2><span class="no">⌂</span>Nhà ga</h2><svg viewBox="-4 -8 38 42" class="ill" style="height:62px;display:block;margin:2px auto 6px"><defs><linearGradient id="sfrr" x1="0" y1="0" x2="0" y2="1"><stop offset="0" stop-color="#d7656d"/><stop offset=".6" stop-color="#c1121f"/><stop offset="1" stop-color="#9e0f19"/></linearGradient>
+   <linearGradient id="ssrr" x1="0" y1="0" x2="1" y2="0"><stop offset="0" stop-color="#780b13"/><stop offset="1" stop-color="#57080e"/></linearGradient>
+   <linearGradient id="srrr" x1="0" y1="0" x2="0" y2="1"><stop offset="0" stop-color="#8a4630"/><stop offset="1" stop-color="#5b2a1c"/></linearGradient></defs>
+  <g fill="#fff" stroke="#fff" stroke-width="4.2" stroke-linejoin="round" opacity=".95">
+     <path d="M-1.5 30 L4 33.5 L31 33.5 L33 27 L30 25 Z"/><path d="M1 13 L11 2.5 L18.5 -1.5 L29 8.5 L28.5 24 L21.5 28.5 L1.5 28.5 Z"/></g>
+  <ellipse cx="16" cy="33" rx="17" ry="3.2" fill="#000" opacity=".28"/>
+  <!-- sân ga -->
+  <path d="M-1.5 29.5 L21.5 29.5 L30.5 24.5 L30.5 27 L21.5 32 L-1.5 32 Z" fill="#b9ab90" stroke="#141010" stroke-width="1.1" stroke-linejoin="round"/>
+  <path d="M-1.5 29.5 L21.5 29.5 L30.5 24.5 L28.5 24.5 L21 28.4 L1.5 28.4 Z" fill="#efe6d2" stroke="#141010" stroke-width="1" stroke-linejoin="round"/>
+  <!-- tường hông -->
+  <path d="M20.5 13 L28 8.5 L28 23.8 L20.5 28.4 Z" fill="url(#ssrr)" stroke="#141010" stroke-width="1.3" stroke-linejoin="round"/>
+  <path d="M22.8 18 L25.8 16.2 L25.8 20.8 L22.8 22.6 Z" fill="#ffd877" stroke="#141010" stroke-width=".7" stroke-linejoin="round"/>
+  <!-- mặt tiền -->
+  <rect x="1.5" y="13" width="19" height="15.4" fill="url(#sfrr)" stroke="#141010" stroke-width="1.3"/>
+  <rect x="1.5" y="13" width="19" height="2" fill="#fff" opacity=".28"/>
+  <rect x="1.5" y="25.6" width="19" height="2.8" fill="#780b13" opacity=".55"/>
+  <!-- cửa vòm + cửa sổ -->
+  <path d="M8 28.4 V21.5 a3 3 0 0 1 6 0 V28.4 Z" fill="#3a2414" stroke="#141010" stroke-width="1"/>
+  <path d="M9.2 28.4 V21.8 a1.8 1.8 0 0 1 3.6 0 V28.4" fill="#ffe7a0" opacity=".85"/>
+  <rect x="3.4" y="18" width="3.2" height="4.4" rx="1.4" fill="#ffd877" stroke="#141010" stroke-width=".8"/>
+  <rect x="15.4" y="18" width="3.2" height="4.4" rx="1.4" fill="#ffd877" stroke="#141010" stroke-width=".8"/>
+  <path d="M3.4 20.2 h3.2 M15.4 20.2 h3.2" stroke="#141010" stroke-width=".5"/>
+  <!-- mái hông -->
+  <path d="M11 2.5 L18.5 -1.5 L29.2 8.6 L21.3 13.4 Z" fill="#3a170e" stroke="#141010" stroke-width="1.3" stroke-linejoin="round"/>
+  <path d="M12.6 2.6 L18.4 -.2 L27.4 8.4" fill="none" stroke="#fff" stroke-opacity=".25" stroke-width="1"/>
+  <!-- mái trước (đầu hồi) -->
+  <path d="M0 13.6 L11 2.5 L22 13.6 Z" fill="url(#srrr)" stroke="#141010" stroke-width="1.3" stroke-linejoin="round"/>
+  <path d="M2.4 12.6 L11 4 L19.6 12.6" fill="none" stroke="#fff" stroke-opacity=".3" stroke-width="1"/>
+  <!-- đồng hồ -->
+  <circle cx="11" cy="9.3" r="3" fill="#fff7dc" stroke="#b8860b" stroke-width="1.1"/>
+  <path d="M11 9.3 V7.4 M11 9.3 L12.4 10" stroke="#141010" stroke-width=".7" stroke-linecap="round"/>
+  <!-- cờ màu người chơi -->
+  <path d="M18.5 -1.5 V-7" stroke="#141010" stroke-width="1"/>
+  <path d="M18.6 -7 L24 -5.6 L18.6 -4.2 Z" fill="#c1121f" stroke="#141010" stroke-width=".7" stroke-linejoin="round"/></svg><ul><li>Đặt ở thành phố chưa có ga.</li><li>Cuối ván mượn 1 tuyến đối thủ vào thành phố đó để nối vé.</li><li>Ga không xây: +4 điểm.</li></ul></section>
 <section class="box"><h2><span class="no">✉</span>Vé hành trình</h2><img src="../../railart/tickets/eu/L0.webp?v=9" alt="" style="width:100%;border-radius:8px;box-shadow:0 3px 8px rgba(0,0,0,.3)"><p>Nối được 2 thành phố: cộng điểm. Không nối được: trừ điểm.</p></section>
 <section class="box"><h2><span class="no">⌛</span>Kết thúc</h2><ul><li>Ai còn ≤ 2 toa: mọi người đi thêm đúng 1 lượt.</li><li>Cộng/trừ vé, +10 đường liên tục dài nhất (hòa thì cùng nhận), +4 mỗi ga chưa xây.</li><li>Bằng điểm: ai xong nhiều vé hơn thắng.</li></ul></section>
 </div>
